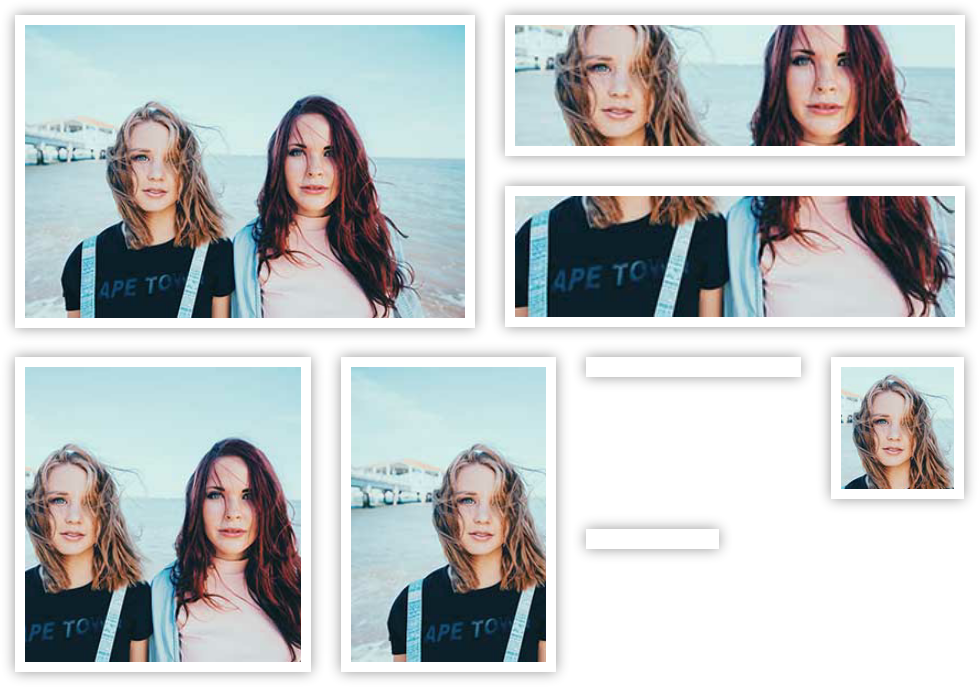
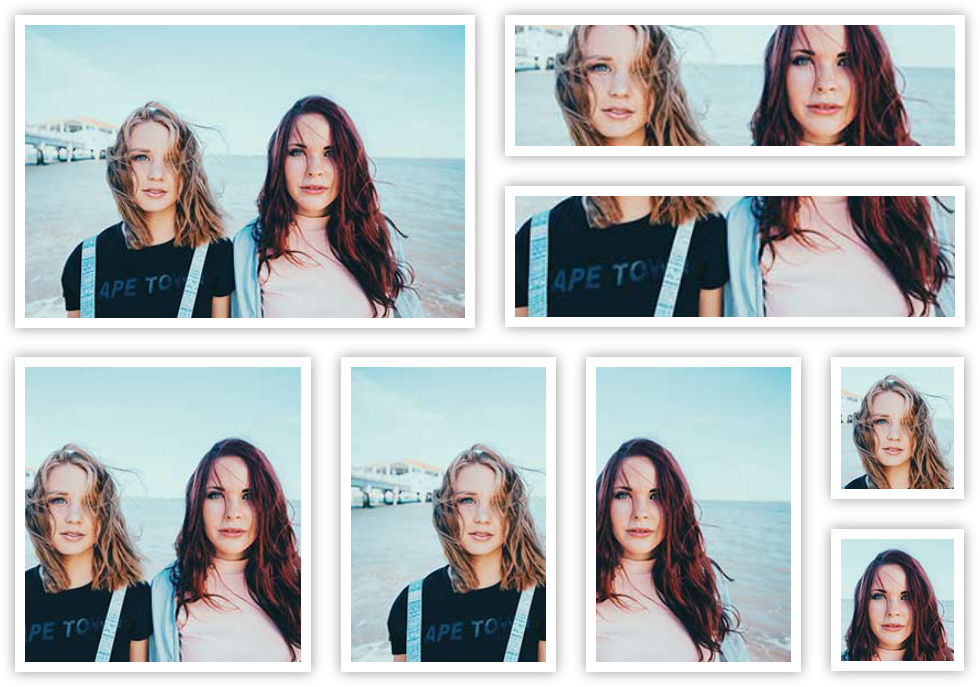
V2.3.0 - Update README.md - Update screenshot

Changed region(s): [[0.5816, 0.5197, 1.0, 1.0]]

diff --git a/dist/jqthumb.min.js b/dist/jqthumb.min.js
@@ -7,7 +7,7 @@
     Version      : 2.3.0
     Repo         : https://github.com/pakcheong/jqthumb
     Demo         : http://pakcheong.github.io/jqthumb/
-    Last Updated : Monday, March 28th, 2016, 4:32:54 AM
+    Last Updated : Monday, March 28th, 2016, 4:39:50 AM
     Requirements : jQuery >=v1.3.0 or Zepto (with zepto-data plugin) >=v1.0.0
 */
 !function(a){"function"==typeof define&&define.amd?"__proto__"in{}===["jquery"]?define(["jquery"],a):"__proto__"in{}===["zepto"]?define(["zepto"],a):a($):a($)}(function(a){function b(a,b){window.console&&"undefined"!=typeof a&&a&&"undefined"!=typeof b&&b&&(a=a.toLowerCase(),"error"==a?console.error(b):"log"==a?console.log(b):console.error('"'+a+'" is not supported as console type.'))}function c(a){return a.replace(/[^\d.-]/g,"")}function d(a,b){var c=a.toString().match(/(-*)+\d+/)[0];return"px"==e(a)?0>a?0:a>b?b:a:"%"==e(a)?0>c?"0%":c>100?"100%":a:void 0}function e(b){var c=b.toString().match(/\d+(.*)/i);if(c)switch(a.trim(c[1])){case"":return"px";case"px":return"px";case"%":return"%"}}function f(b,c){this.element=b,this.settings=a.extend({},s,c),this.settings.scrollCheck=this.settings.scrollCheck.toString().replace(/px/gi,""),this.settings.width=this.settings.width.toString().replace(/px/gi,""),this.settings.height=this.settings.height.toString().replace(/px/gi,""),this.settings.position.y=d(this.settings.position.y,this.settings.width),this.settings.position.x=d(this.settings.position.x,this.settings.height),this.settings.zoom=this.settings.zoom<0?0:this.settings.zoom,"string"==typeof c?"kill"==c.toLowerCase()&&this.kill(this.element):(a(this.element).data(q,this.settings),this.init())}var g=function(){var a=document.createElement("div"),b="Khtml Ms O Moz Webkit".split(" ");b.length;return function(c){if(c in a.style)return!0;c=c.replace(/^[a-z]/,function(a){return a.toUpperCase()});for(var d in b)if(b[d]+c in a.style)return!0;return!1}}(),h=function(a,b){var c=a,d=j.scrollTop(),e=d+j.height(),f=c.offset().top,g=f+c.height();return b=b?0:b,e>=g-b&&f>=d},i="jqthumb",j=a(window),k=i+"-resize",l="scroll."+i+" resize."+i+" scrollstop."+i,m=null,n=i+"-render-position",o=i+"-original-styles",p=i+"-onscreen",q=i+"-options",r={outputElems:[],inputElems:[]},s={classname:i,width:100,height:100,position:{x:"50%",y:"50%"},source:"src",responsive:20,zoom:1,show:!0,renderPosition:"before",ondemand:!1,scrollCheck:0,method:"auto",reinit:!0,before:function(){},after:function(){},done:function(){}};f.prototype={init:function(){var a=this.settings.method.toLowerCase();"auto"==a?g("backgroundSize")===!1?this["native"](this.element,this.settings):this.modern(this.element,this.settings):"modern"==a?this.modern(this.element,this.settings):"native"==a?this["native"](this.element,this.settings):b("error",'Invalid method. Only "auto", "modern" and "native" are allowed.')},kill:function(c){var d=a(c);if(d.data(i)){var e=[],f=function(){return"after"===d.data(n)?d.next():d.prev()}();if(f.data(i)!==i)return b("error","Could not find the element. It is probably due to one or more element has been added right before the image element after the plugin initialization or it was removed."),!1;e=[],a.each(r.outputElems,function(b,c){a(c)[0]!=f[0]&&e.push(r.outputElems[b])}),r.outputElems=e,e=[],a.each(r.inputElems,function(b,c){a(c)[0]!=d[0]&&e.push(r.inputElems[b])}),r.inputElems=e,f.data(k)&&(j.unbind("resize",f.data(k)),f.removeData(k)),j.unbind(l,m),f.remove(),d.removeAttr("style"),d.data(o)||(d.attr("style",d.data(o)),d.removeData(o))}},"native":function(b,d){function f(b,f,g){var h=a("<img/>");h.bind("load",function(){var f={obj:h,size:{width:this.width,height:this.height}},l=(e(d.width),e(d.height),d.responsive),m=a(f.obj),n=a("<div />"),o=0,p=function(){setTimeout(function(){q()},l)},q=function(){var b=m.parent(),g=b.height(),h=b.width(),i=d.zoom,j=d.position.x,k=d.position.y;if(f.size.width>f.size.height?(m.css({width:"auto","max-height":99999999,"min-height":0,"max-width":99999999,"min-width":0,height:g+"px"}),o=m.height()/m.width(),m.width()<h?m.css({width:h*i,height:parseFloat(h*o)*i}):m.css({width:m.width()*i,height:parseFloat(m.width()*o)*i})):(m.css({width:h+"px","max-height":99999999,"min-height":0,"max-width":99999999,"min-width":0,height:"auto"}),o=m.width()/m.height(),m.height()<g&&m.css({width:parseFloat(g*o)*i,height:g*i})),d.zoom<1){var l=a("<div />"),n=d.width.toString(),p=d.height.toString(),q=e(n),r=e(p);l.css({width:parseFloat(c(n)*d.zoom)+q,height:parseFloat(c(p)*d.zoom)+r,position:"relative",overflow:"hidden"}).appendTo(m.parent()),m.appendTo(l)}m.css({position:"absolute",left:function(){var a=0;return"%"==e(j)?(a=parseFloat((m.width()-m.parent().width())/100*c(j)),0>=a?a+"px":"-"+a+"px"):"px"==e(j)||isNaN(j)===!1?c(j)+"px":void 0}(),top:function(){var a=0;return"%"==e(k)?(a=parseFloat((m.height()-m.parent().height())/100*c(k)),0>=a?a+"px":"-"+a+"px"):"px"==e(k)||isNaN(k)===!1?c(k)+"px":void 0}()})};"after"===d.renderPosition.toLowerCase()?n.insertAfter(b):n.insertBefore(b),n.append(m).css({position:"relative",overflow:"hidden",width:c(d.width)+e(d.width),height:c(d.height)+e(d.height)}).data(i,i),q(),!isNaN(l)&&l>0&&(n.data(k,p),j.bind("resize",n.data(k))),n.hide().addClass(d.classname),d.show===!0&&n.show(),"function"==typeof g&&g(n)}).attr("src",b.attr(d.source))}d.before.apply(b,[b]);var g=this,m=a(b),q=m.attr(d.source),r=function(){var a=h(m.parent(),d.scrollCheck);a&&!m.data(p)&&(m.data(p,!0),m.unwrap(),f(m,q,function(a){d.after.apply(b,[a]),g.updateGlobal(b,a,d)}))};m.data(o,m.attr("style")),m.data(n,d.renderPosition),m.hide(),d.ondemand===!0?(m.wrap("<div />"),j.bind(l,r)):f(m,q,function(a){d.after.apply(b,[$imgContainer]),g.updateGlobal(b,$imgContainer,d)})},modern:function(b,d){function f(b,f,g){$tempImg=a("<img />").attr("src",f),a.each($tempImg,function(h,j){var k=a(j);k.one("load",function(){var h=d.width,j=d.height,k=d.zoom,l=d.position.x,m=d.position.y,n=null,o=null;n=a("<div/>").css({width:c(h)+e(h),height:c(j)+e(j),display:"none",position:"relative",overflow:"hidden"}).addClass(d.classname).data(i,i),o=a("<div/>").css({width:"100%",height:"100%","background-image":'url("'+f+'")',"background-repeat":"no-repeat","background-position":c(l)+e(l)+" "+c(m)+e(m),"background-size":"cover"}).appendTo(n),"after"===d.renderPosition.toLowerCase()?n.insertAfter(b):n.insertBefore(b),n.show(),o.css({width:parseFloat(100*k)+"%",height:parseFloat(100*k)+"%",position:"absolute"}).css({top:function(){var a=n.height(),b=o.height();return"%"==e(m)?"-"+parseFloat((b-a)/a*100/(100/c(m)))+"%":void 0}(),left:function(){var a=n.width(),b=o.width();return"%"==e(l)?"-"+parseFloat((b-a)/a*100/(100/c(l)))+"%":void 0}()}),n.hide(),d.show===!0&&n.show(),"function"==typeof g&&g(n)})})}d.before.apply(b,[b]);var g=this,k=a(b),m=k.attr(d.source),q=function(){var a=h(k.parent(),d.scrollCheck);a&&!k.data(p)&&(k.data(p,!0),k.unwrap(),f(k,m,function(a){d.after.apply(b,[a]),g.updateGlobal(b,a,d)}))};k.data(o,k.attr("style")),k.data(n,d.renderPosition),k.hide(),d.ondemand===!0?(k.wrap("<div />"),j.bind(l,q)):f(k,m,function(a){d.after.apply(b,[a]),g.updateGlobal(b,a,d)})},updateGlobal:function(b,c,d){b.global.outputElems.push(a(c)[0]),b.global.elemCounter++,r.outputElems.push(a(c)[0]),b.global.elemCounter==b.global.inputElems.length&&d.done.apply(b,[b.global.outputElems])}},a.fn[i]=function(c){var d={},e={elemCounter:0,outputElems:[],inputElems:function(b){for(var c=a(b),d=c.length,e=[],f=0;d>f;f++)e.push(c.get(f));return e}(a(this))};return a.fn.unwrap||(a.fn.unwrap=function(){this.parent().each(function(){a.nodeName(this,"body")||a(this).replaceWith(this.childNodes)}).end()}),d[i]=function(c){return"undefined"==typeof c?void b("error","Please specify an action like $."+i+'("killall")'):(c=c.toLowerCase(),void("killall"==c&&a.each(r.inputElems,function(){new f(this,"kill")})))},a.extend(a,d),this.each(function(){var b=a(this);this.global=e,r.inputElems.push(b),"string"==typeof c?new f(this,c):b.data(i)?b.data(q)&&b.data(q).reinit===!0&&(new f(this,"kill"),b.data(i,new f(this,c))):b.data(i,new f(this,c))})}});

diff --git a/dist/main.js b/dist/main.js
@@ -113,7 +113,7 @@ $(function(){
         position  : { y: '50%', x: '100%' },
         show      : false,
         renderPosition: 'after',
-        ondemand  : true,
+        // ondemand  : true,
         before    : function(oriImage){},
         after     : function(imgObj){
             fadeIn($(imgObj));
@@ -143,7 +143,7 @@ $(function(){
         zoom           : 2,
         show           : false,
         renderPosition : 'after',
-        ondemand       : true,
+        // ondemand       : true,
         scrollCheck    : 200,
         before         : function(oriImage){},
         after          : function(imgObj){

diff --git a/dist/jqthumb.js b/dist/jqthumb.js
@@ -7,7 +7,7 @@
     Version      : 2.3.0
     Repo         : https://github.com/pakcheong/jqthumb
     Demo         : http://pakcheong.github.io/jqthumb/
-    Last Updated : Monday, March 28th, 2016, 4:32:54 AM
+    Last Updated : Monday, March 28th, 2016, 4:39:50 AM
     Requirements : jQuery >=v1.3.0 or Zepto (with zepto-data plugin) >=v1.0.0
 */
 (function (factory) {

diff --git a/README.md b/README.md
@@ -2,7 +2,7 @@
 
 Create thumbnails from images proportionally. On top of that, this is alaso a lazy-load plugin, which even works on IE6 from jQuery >=v1.3 or Zepto (with zepto-data plugin) >=v1.1.3.
 
-![screenshot.jquery.png](http://pakcheong.github.io/jqthumb/demo/demo.jpg)
+![screenshot](screenshots/screenshot.jquery.png?raw=true "jQThumb Screenshot")
 
 #USAGE
 ```html
